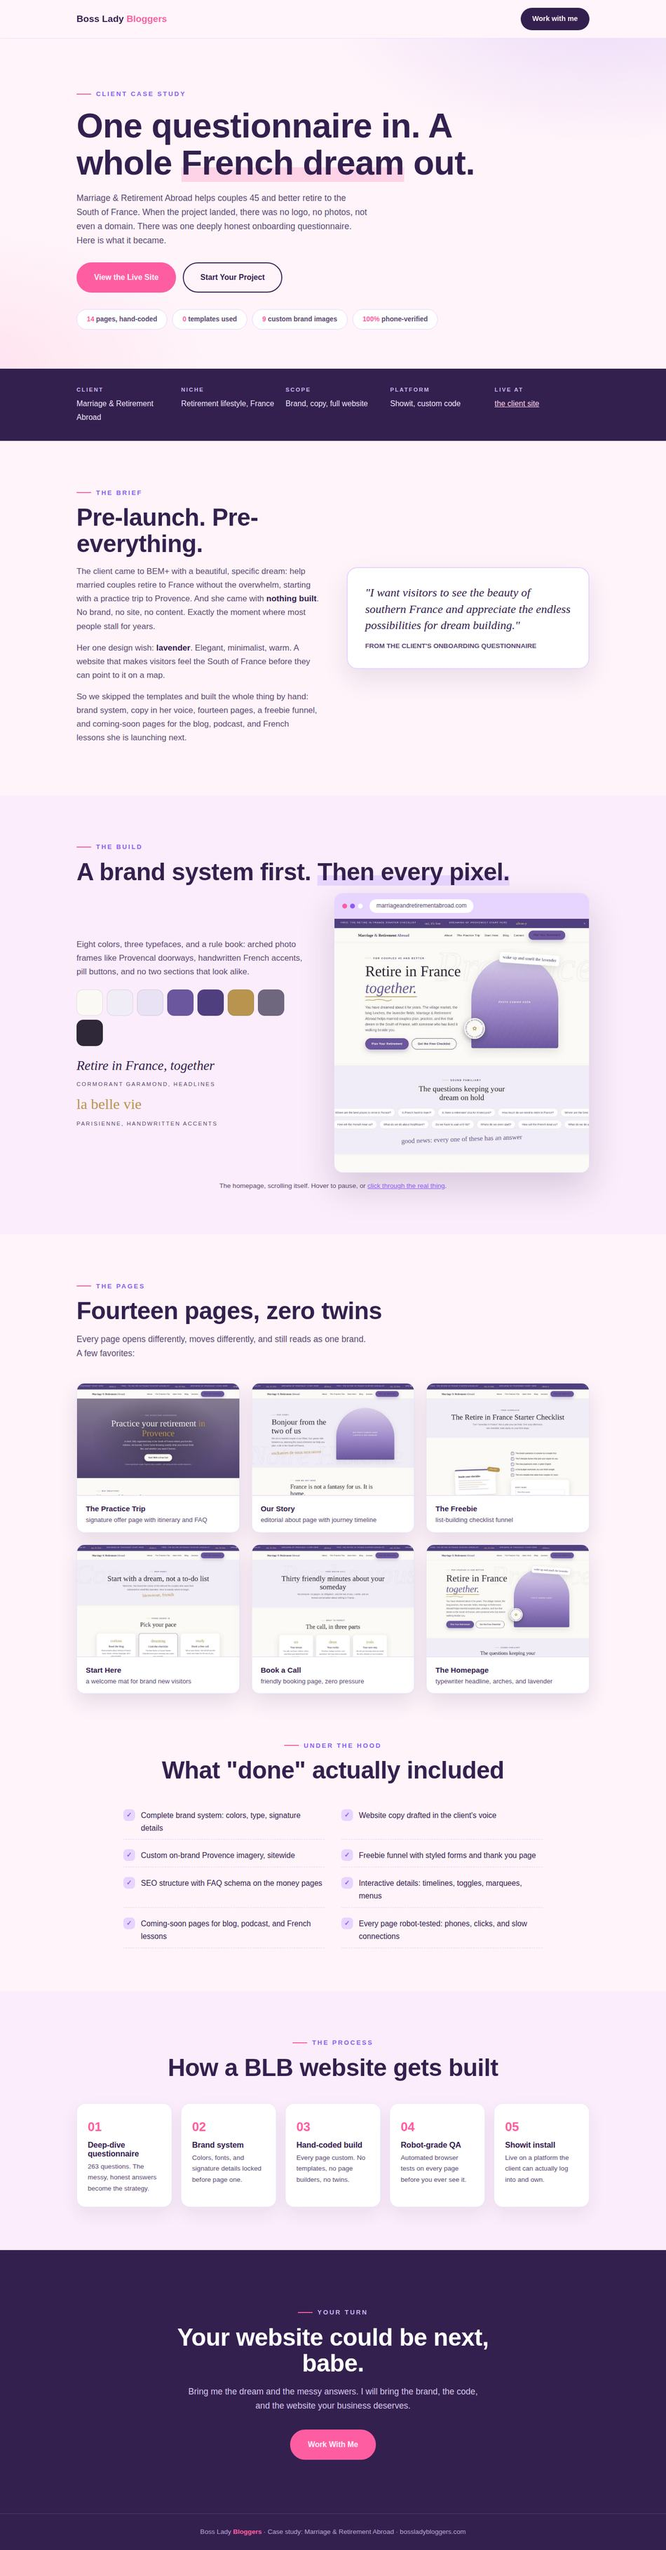
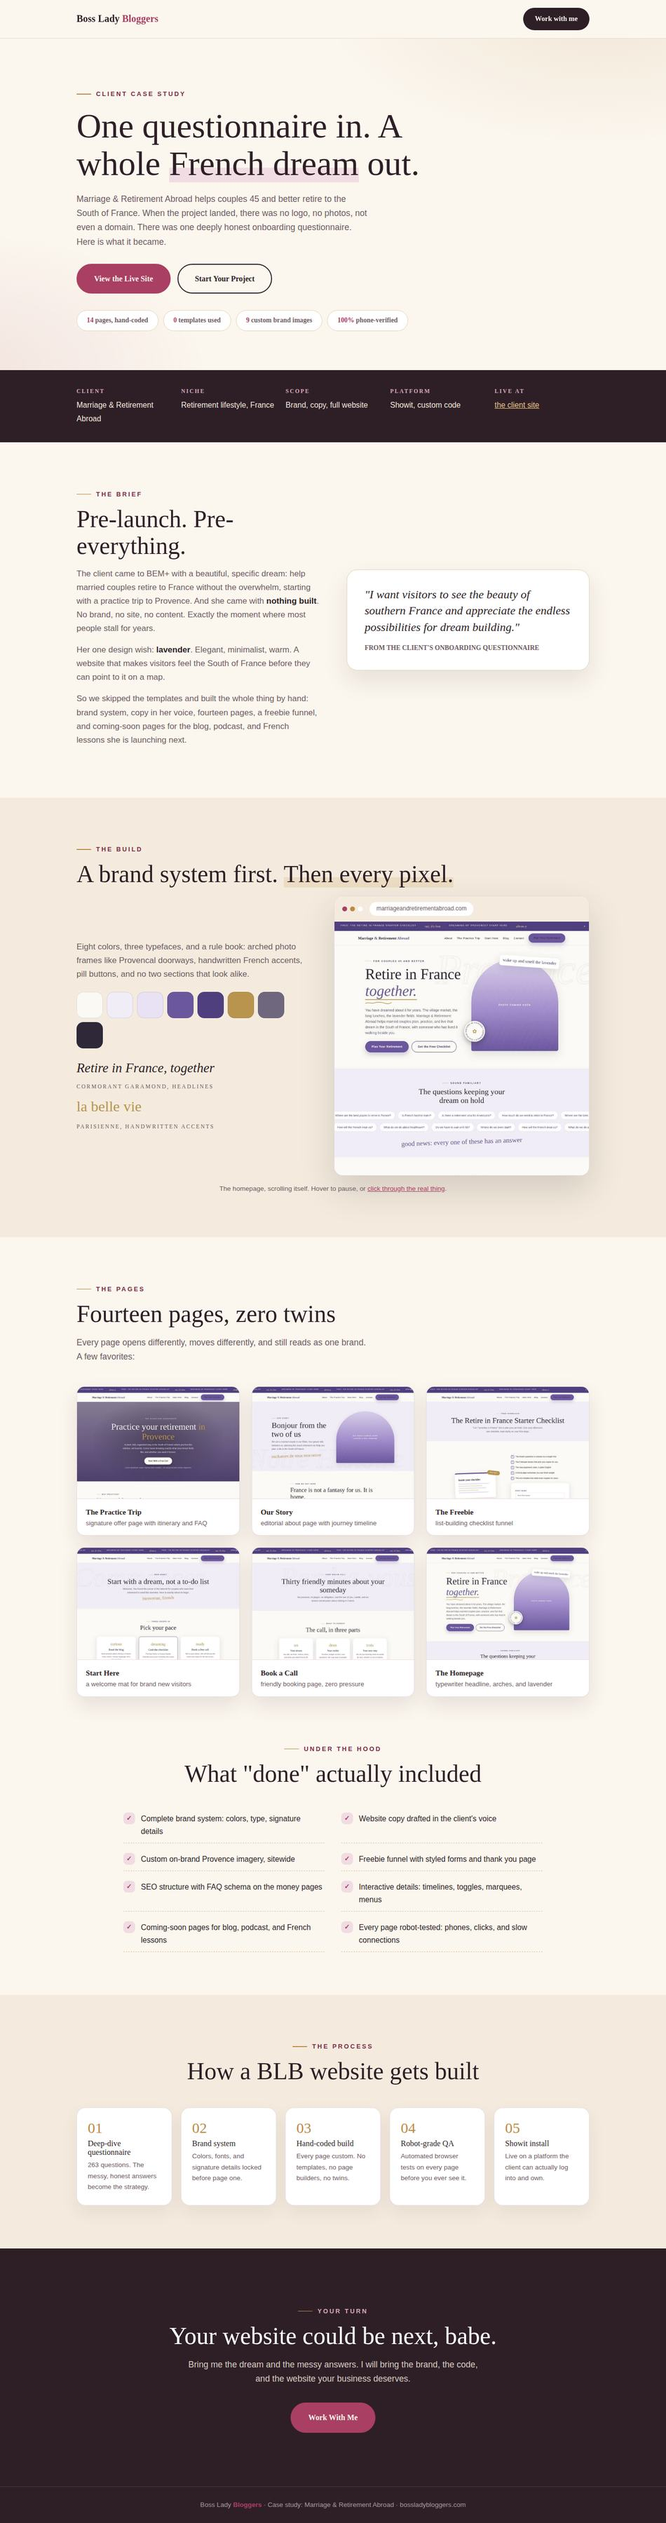
Restyle MRA case study to the playbook BLB brand
Swaps the draft index.html palette for the documented brand system:
Fraunces/Karla/Ephesis, cream #FBF6EE paper, ink #2E1F27, pink #A93F63
action color, gold #BC8A47 accents, blush surfaces.

Claude-Session: https://claude.ai/code/session_011La7xTbi3rv4rhvNtv9tMG

diff --git a/portfolio/case-study-mra.html b/portfolio/case-study-mra.html
@@ -7,11 +7,11 @@
 <meta name="description" content="How Boss Lady Bloggers turned one onboarding questionnaire into a 14-page, hand-coded website for Marriage &amp; Retirement Abroad, a retire-in-France brand for couples 45 and better.">
 <link rel="preconnect" href="https://fonts.googleapis.com">
 <link rel="preconnect" href="https://fonts.gstatic.com" crossorigin>
-<link href="https://fonts.googleapis.com/css2?family=Bricolage+Grotesque:opsz,wght@12..96,400;12..96,600;12..96,700;12..96,800&family=Inter:wght@400;500;600&family=Cormorant+Garamond:ital,wght@1,500&family=Parisienne&display=swap" rel="stylesheet">
+<link href="https://fonts.googleapis.com/css2?family=Fraunces:ital,opsz,wght@0,9..144,500;0,9..144,600;1,9..144,500&family=Karla:wght@400;700&family=Ephesis&family=Cormorant+Garamond:ital,wght@1,500&family=Parisienne&display=swap" rel="stylesheet">
 <style>
-:root{--paper:#FFF4FA;--tint:#FBEDFB;--ink:#34204F;--pink:#FF5DA2;--purple:#8B5CF6;
-  --lilac:#E7D4FF;--blue:#5C7CFA;--muted:#5b4a72;
-  --display:'Bricolage Grotesque',sans-serif;--body:'Inter',sans-serif;
+:root{--paper:#FBF6EE;--tint:#F4EBDE;--ink:#2E1F27;--pink:#A93F63;--purple:#7C2B48;
+  --lilac:#F0DCE2;--gold:#BC8A47;--muted:#6E5C63;
+  --display:'Fraunces',Georgia,serif;--body:'Karla',sans-serif;--script:'Ephesis',cursive;
   --mra-serif:'Cormorant Garamond',serif;--mra-script:'Parisienne',cursive}
 *{margin:0;padding:0;box-sizing:border-box}
 html{scroll-behavior:smooth}
@@ -20,64 +20,64 @@ body{background:var(--paper);color:var(--ink);font-family:var(--body);font-size:
 img{max-width:100%;display:block}
 .wrap{max-width:1100px;margin:0 auto;padding:0 24px}
 section{padding:88px 0;position:relative;overflow:hidden}
-h1,h2,h3{font-family:var(--display);font-weight:800;line-height:1.08;letter-spacing:-.01em}
+h1,h2,h3{font-family:var(--display);font-weight:500;line-height:1.1;letter-spacing:0}
 .eyebrow{display:inline-flex;align-items:center;gap:10px;font-family:var(--display);font-weight:700;
-  font-size:.82rem;letter-spacing:.22em;text-transform:uppercase;color:var(--purple)}
-.eyebrow::before{content:"";width:30px;height:2px;background:var(--pink)}
+  font-size:.8rem;letter-spacing:.24em;text-transform:uppercase;color:var(--purple);font-family:var(--body);font-weight:700}
+.eyebrow::before{content:"";width:30px;height:1.5px;background:var(--gold)}
 .h2{font-size:clamp(2rem,4.4vw,3.1rem);margin:14px 0 16px}
-.mark{background:linear-gradient(180deg,transparent 62%,var(--lilac) 62%)}
-.mark.pink{background:linear-gradient(180deg,transparent 62%,#FFD3E7 62%)}
+.mark{background:linear-gradient(180deg,transparent 62%,#EBDCC3 62%)}
+.mark.pink{background:linear-gradient(180deg,transparent 62%,var(--lilac) 62%)}
 .lede{font-size:1.1rem;color:var(--muted);max-width:600px}
 .btn{display:inline-flex;align-items:center;gap:8px;font-family:var(--display);font-weight:700;
   font-size:.98rem;padding:16px 34px;border-radius:50px;text-decoration:none;background:var(--ink);
   color:var(--paper);border:2px solid var(--ink);transition:transform .2s,box-shadow .2s,background .2s,color .2s}
-.btn:hover{transform:translateY(-3px);box-shadow:0 14px 30px rgba(52,32,79,.25)}
+.btn:hover{transform:translateY(-3px);box-shadow:0 14px 30px rgba(46,31,39,.22)}
 .btn-pink{background:var(--pink);border-color:var(--pink)}
 .btn-outline{background:transparent;color:var(--ink)}
 .btn-outline:hover{background:var(--ink);color:var(--paper)}
 
-nav{position:sticky;top:0;z-index:50;background:rgba(255,244,250,.92);backdrop-filter:blur(10px);
-  border-bottom:1px solid rgba(139,92,246,.15)}
+nav{position:sticky;top:0;z-index:50;background:rgba(251,246,238,.93);backdrop-filter:blur(10px);
+  border-bottom:1px solid rgba(124,43,72,.14)}
 .nav-inner{display:flex;align-items:center;justify-content:space-between;padding:16px 24px;max-width:1100px;margin:0 auto}
-.logo{font-family:var(--display);font-weight:800;font-size:1.2rem}
+.logo{font-family:var(--display);font-weight:600;font-size:1.25rem}
 .logo b{color:var(--pink)}
 .logo a{color:var(--ink);text-decoration:none}
 .nav-cta{font-family:var(--display);font-weight:700;font-size:.9rem;background:var(--ink);color:var(--paper);
   padding:11px 24px;border-radius:50px;text-decoration:none}
 
 .hero{padding:96px 0 80px;background:
-  radial-gradient(800px 400px at 90% -10%,rgba(139,92,246,.16),transparent 70%),
-  radial-gradient(700px 400px at -5% 100%,rgba(255,93,162,.12),transparent 70%),var(--paper)}
+  radial-gradient(800px 400px at 90% -10%,rgba(188,138,71,.14),transparent 70%),
+  radial-gradient(700px 400px at -5% 100%,rgba(169,63,99,.10),transparent 70%),var(--paper)}
 .hero h1{font-size:clamp(2.6rem,6vw,4.4rem);margin:16px 0 20px;max-width:820px}
 .hctas{display:flex;gap:14px;flex-wrap:wrap;margin-top:30px}
 .chips{display:flex;gap:10px;flex-wrap:wrap;margin-top:34px}
-.chip{background:#fff;border:1.5px solid var(--lilac);border-radius:50px;padding:9px 20px;
+.chip{background:#fff;border:1.5px solid #E5D3B8;border-radius:50px;padding:9px 20px;
   font-family:var(--display);font-weight:600;font-size:.86rem;color:var(--muted)}
-.chip b{color:var(--pink)}
+.chip b{color:var(--pink);font-family:var(--display)}
 
-.meta{background:var(--ink);color:#EDE4FA;padding:34px 0}
+.meta{background:var(--ink);color:#F2E8DC;padding:34px 0}
 .metarow{display:grid;grid-template-columns:repeat(5,1fr);gap:20px}
 .meta .m b{display:block;font-family:var(--display);font-size:.72rem;letter-spacing:.2em;
-  text-transform:uppercase;color:#C9B6F2;margin-bottom:5px}
+  text-transform:uppercase;color:#D9A9BC;margin-bottom:5px}
 .meta .m span{font-size:.98rem}
-.meta a{color:#FFD3E7}
+.meta a{color:#E9C48A}
 
 .split{display:grid;grid-template-columns:1fr 1fr;gap:56px;align-items:center}
 .brief p{margin-bottom:16px;color:var(--muted)}
 .brief p b{color:var(--ink)}
-.quotecard{background:#fff;border:2px solid var(--lilac);border-radius:22px;padding:34px 36px;
-  box-shadow:0 22px 50px rgba(52,32,79,.10);transform:rotate(-1deg)}
+.quotecard{background:#fff;border:1.5px solid #E5D3B8;border-radius:22px;padding:34px 36px;
+  box-shadow:0 22px 50px rgba(46,31,39,.10);transform:rotate(-1deg)}
 .quotecard .q{font-family:var(--mra-serif);font-style:italic;font-size:1.5rem;line-height:1.4;color:var(--ink)}
 .quotecard .a{margin-top:14px;font-family:var(--display);font-weight:600;font-size:.85rem;color:var(--muted)}
 
 .tour{background:var(--tint)}
 .tourgrid{display:grid;grid-template-columns:1fr 1.1fr;gap:52px;align-items:center;margin-top:10px}
-.browser{background:#fff;border-radius:18px;overflow:hidden;border:1px solid rgba(139,92,246,.2);
-  box-shadow:0 30px 70px rgba(52,32,79,.18)}
-.bbar{display:flex;gap:6px;align-items:center;padding:12px 16px;background:var(--lilac)}
+.browser{background:#fff;border-radius:18px;overflow:hidden;border:1px solid rgba(124,43,72,.18);
+  box-shadow:0 30px 70px rgba(46,31,39,.16)}
+.bbar{display:flex;gap:6px;align-items:center;padding:12px 16px;background:var(--tint)}
 .bbar i{width:10px;height:10px;border-radius:50%;background:#fff}
 .bbar i:nth-child(1){background:var(--pink)}
-.bbar i:nth-child(2){background:var(--purple)}
+.bbar i:nth-child(2){background:var(--gold)}
 .bbar span{margin-left:8px;background:#fff;border-radius:50px;padding:4px 14px;font-size:.75rem;color:var(--muted)}
 .bwin{height:520px;overflow:hidden;position:relative}
 .bwin img{width:100%;animation:sitescroll 26s ease-in-out infinite alternate}
@@ -91,30 +91,30 @@ nav{position:sticky;top:0;z-index:50;background:rgba(255,244,250,.92);backdrop-f
 .spec .lab{font-family:var(--display);font-size:.72rem;letter-spacing:.2em;text-transform:uppercase;color:var(--muted)}
 
 .gal{display:grid;grid-template-columns:repeat(3,1fr);gap:24px;margin-top:46px}
-.shot{background:#fff;border-radius:16px;overflow:hidden;border:1px solid rgba(139,92,246,.18);
-  box-shadow:0 18px 40px rgba(52,32,79,.12);transition:transform .25s}
+.shot{background:#fff;border-radius:16px;overflow:hidden;border:1px solid rgba(124,43,72,.16);
+  box-shadow:0 18px 40px rgba(46,31,39,.10);transition:transform .25s}
 .shot:hover{transform:translateY(-6px) rotate(-.5deg)}
 .shot .simg{height:230px;overflow:hidden;border-bottom:1px solid var(--lilac)}
 .shot figcaption{padding:14px 18px;font-family:var(--display);font-weight:700;font-size:.95rem}
 .shot figcaption span{display:block;font-family:var(--body);font-weight:400;font-size:.82rem;color:var(--muted)}
 
 .inc{display:grid;grid-template-columns:1fr 1fr;gap:10px 34px;max-width:860px;margin:42px auto 0}
-.inc div{display:flex;gap:12px;align-items:flex-start;padding:10px 0;border-bottom:1px dashed rgba(139,92,246,.25);font-size:.98rem}
+.inc div{display:flex;gap:12px;align-items:flex-start;padding:10px 0;border-bottom:1px dashed rgba(188,138,71,.45);font-size:.98rem}
 .inc div::before{content:"✓";flex:none;width:24px;height:24px;border-radius:8px;background:var(--lilac);
-  color:var(--purple);font-weight:700;display:flex;align-items:center;justify-content:center;font-size:.85rem}
+  color:var(--pink);font-weight:700;display:flex;align-items:center;justify-content:center;font-size:.85rem}
 
 .steps{background:var(--tint)}
 .steprow{display:grid;grid-template-columns:repeat(5,1fr);gap:18px;margin-top:46px}
-.step{background:#fff;border-radius:18px;padding:26px 22px;border:1px solid rgba(139,92,246,.16);
-  box-shadow:0 14px 34px rgba(52,32,79,.08)}
-.step .n{font-family:var(--display);font-weight:800;font-size:1.6rem;color:var(--pink)}
+.step{background:#fff;border-radius:18px;padding:26px 22px;border:1px solid rgba(124,43,72,.15);
+  box-shadow:0 14px 34px rgba(46,31,39,.07)}
+.step .n{font-family:var(--script);font-size:1.9rem;color:var(--gold);line-height:1}
 .step h3{font-size:1.02rem;margin:8px 0 6px}
 .step p{font-size:.85rem;color:var(--muted)}
 
 .final{background:var(--ink);color:var(--paper);text-align:center;padding:110px 0}
 .final .h2{color:#fff;max-width:680px;margin:14px auto 16px}
-.final .lede{margin:0 auto 34px;color:#D5C8EC}
-footer{background:var(--ink);color:#B8A8D6;text-align:center;font-size:.85rem;padding:26px 16px;
+.final .lede{margin:0 auto 34px;color:#D8CDC2}
+footer{background:var(--ink);color:#A9989F;text-align:center;font-size:.85rem;padding:26px 16px;
   border-top:1px solid rgba(255,255,255,.12)}
 footer b{color:var(--pink)}
 
@@ -216,7 +216,7 @@ footer b{color:var(--pink)}
     </div>
   </div>
   <p style="text-align:center;margin-top:16px;font-size:.85rem;color:var(--muted)">The homepage, scrolling itself. Hover to pause, or
-  <a href="https://marriageandretirementabroad.showit.site/" target="_blank" rel="noopener" style="color:var(--purple)">click through the real thing</a>.</p>
+  <a href="https://marriageandretirementabroad.showit.site/" target="_blank" rel="noopener" style="color:var(--pink)">click through the real thing</a>.</p>
 </div></section>
 
 <section><div class="wrap">
@@ -268,7 +268,7 @@ footer b{color:var(--pink)}
 </div></section>
 
 <section class="final"><div class="wrap">
-  <span class="eyebrow" style="color:#C9B6F2">Your turn</span>
+  <span class="eyebrow" style="color:#D9A9BC">Your turn</span>
   <h2 class="h2">Your website could be next, babe.</h2>
   <p class="lede">Bring me the dream and the messy answers. I will bring the brand, the code, and the
   website your business deserves.</p>

diff --git a/portfolio/build_case_study.py b/portfolio/build_case_study.py
@@ -1,8 +1,8 @@
 #!/usr/bin/env python3
 """BLB portfolio case study: Marriage & Retirement Abroad.
 Single-file page for a full-page Showit embed on bossladybloggers.com.
-Matches the LIVE BLB brand (index.html): Bricolage Grotesque + Inter,
-pink/purple on blush paper. Run: python3 build_case_study.py"""
+Matches the BLB brand per CLIENT-SITE-PLAYBOOK Phase 1: Fraunces + Karla
++ Ephesis, cream paper, deep pink #A93F63, gold accents. Run: python3 build_case_study.py"""
 
 RAW = "https://raw.githubusercontent.com/genasbury12/blb-site/claude/lisette-client-repo-9865ki/portfolio/img"
 LIVE = "https://marriageandretirementabroad.showit.site/"
@@ -17,11 +17,11 @@ html = f"""<!DOCTYPE html>
 <meta name="description" content="How Boss Lady Bloggers turned one onboarding questionnaire into a 14-page, hand-coded website for Marriage &amp; Retirement Abroad, a retire-in-France brand for couples 45 and better.">
 <link rel="preconnect" href="https://fonts.googleapis.com">
 <link rel="preconnect" href="https://fonts.gstatic.com" crossorigin>
-<link href="https://fonts.googleapis.com/css2?family=Bricolage+Grotesque:opsz,wght@12..96,400;12..96,600;12..96,700;12..96,800&family=Inter:wght@400;500;600&family=Cormorant+Garamond:ital,wght@1,500&family=Parisienne&display=swap" rel="stylesheet">
+<link href="https://fonts.googleapis.com/css2?family=Fraunces:ital,opsz,wght@0,9..144,500;0,9..144,600;1,9..144,500&family=Karla:wght@400;700&family=Ephesis&family=Cormorant+Garamond:ital,wght@1,500&family=Parisienne&display=swap" rel="stylesheet">
 <style>
-:root{{--paper:#FFF4FA;--tint:#FBEDFB;--ink:#34204F;--pink:#FF5DA2;--purple:#8B5CF6;
-  --lilac:#E7D4FF;--blue:#5C7CFA;--muted:#5b4a72;
-  --display:'Bricolage Grotesque',sans-serif;--body:'Inter',sans-serif;
+:root{{--paper:#FBF6EE;--tint:#F4EBDE;--ink:#2E1F27;--pink:#A93F63;--purple:#7C2B48;
+  --lilac:#F0DCE2;--gold:#BC8A47;--muted:#6E5C63;
+  --display:'Fraunces',Georgia,serif;--body:'Karla',sans-serif;--script:'Ephesis',cursive;
   --mra-serif:'Cormorant Garamond',serif;--mra-script:'Parisienne',cursive}}
 *{{margin:0;padding:0;box-sizing:border-box}}
 html{{scroll-behavior:smooth}}
@@ -30,64 +30,64 @@ body{{background:var(--paper);color:var(--ink);font-family:var(--body);font-size
 img{{max-width:100%;display:block}}
 .wrap{{max-width:1100px;margin:0 auto;padding:0 24px}}
 section{{padding:88px 0;position:relative;overflow:hidden}}
-h1,h2,h3{{font-family:var(--display);font-weight:800;line-height:1.08;letter-spacing:-.01em}}
+h1,h2,h3{{font-family:var(--display);font-weight:500;line-height:1.1;letter-spacing:0}}
 .eyebrow{{display:inline-flex;align-items:center;gap:10px;font-family:var(--display);font-weight:700;
-  font-size:.82rem;letter-spacing:.22em;text-transform:uppercase;color:var(--purple)}}
-.eyebrow::before{{content:"";width:30px;height:2px;background:var(--pink)}}
+  font-size:.8rem;letter-spacing:.24em;text-transform:uppercase;color:var(--purple);font-family:var(--body);font-weight:700}}
+.eyebrow::before{{content:"";width:30px;height:1.5px;background:var(--gold)}}
 .h2{{font-size:clamp(2rem,4.4vw,3.1rem);margin:14px 0 16px}}
-.mark{{background:linear-gradient(180deg,transparent 62%,var(--lilac) 62%)}}
-.mark.pink{{background:linear-gradient(180deg,transparent 62%,#FFD3E7 62%)}}
+.mark{{background:linear-gradient(180deg,transparent 62%,#EBDCC3 62%)}}
+.mark.pink{{background:linear-gradient(180deg,transparent 62%,var(--lilac) 62%)}}
 .lede{{font-size:1.1rem;color:var(--muted);max-width:600px}}
 .btn{{display:inline-flex;align-items:center;gap:8px;font-family:var(--display);font-weight:700;
   font-size:.98rem;padding:16px 34px;border-radius:50px;text-decoration:none;background:var(--ink);
   color:var(--paper);border:2px solid var(--ink);transition:transform .2s,box-shadow .2s,background .2s,color .2s}}
-.btn:hover{{transform:translateY(-3px);box-shadow:0 14px 30px rgba(52,32,79,.25)}}
+.btn:hover{{transform:translateY(-3px);box-shadow:0 14px 30px rgba(46,31,39,.22)}}
 .btn-pink{{background:var(--pink);border-color:var(--pink)}}
 .btn-outline{{background:transparent;color:var(--ink)}}
 .btn-outline:hover{{background:var(--ink);color:var(--paper)}}
 
-nav{{position:sticky;top:0;z-index:50;background:rgba(255,244,250,.92);backdrop-filter:blur(10px);
-  border-bottom:1px solid rgba(139,92,246,.15)}}
+nav{{position:sticky;top:0;z-index:50;background:rgba(251,246,238,.93);backdrop-filter:blur(10px);
+  border-bottom:1px solid rgba(124,43,72,.14)}}
 .nav-inner{{display:flex;align-items:center;justify-content:space-between;padding:16px 24px;max-width:1100px;margin:0 auto}}
-.logo{{font-family:var(--display);font-weight:800;font-size:1.2rem}}
+.logo{{font-family:var(--display);font-weight:600;font-size:1.25rem}}
 .logo b{{color:var(--pink)}}
 .logo a{{color:var(--ink);text-decoration:none}}
 .nav-cta{{font-family:var(--display);font-weight:700;font-size:.9rem;background:var(--ink);color:var(--paper);
   padding:11px 24px;border-radius:50px;text-decoration:none}}
 
 .hero{{padding:96px 0 80px;background:
-  radial-gradient(800px 400px at 90% -10%,rgba(139,92,246,.16),transparent 70%),
-  radial-gradient(700px 400px at -5% 100%,rgba(255,93,162,.12),transparent 70%),var(--paper)}}
+  radial-gradient(800px 400px at 90% -10%,rgba(188,138,71,.14),transparent 70%),
+  radial-gradient(700px 400px at -5% 100%,rgba(169,63,99,.10),transparent 70%),var(--paper)}}
 .hero h1{{font-size:clamp(2.6rem,6vw,4.4rem);margin:16px 0 20px;max-width:820px}}
 .hctas{{display:flex;gap:14px;flex-wrap:wrap;margin-top:30px}}
 .chips{{display:flex;gap:10px;flex-wrap:wrap;margin-top:34px}}
-.chip{{background:#fff;border:1.5px solid var(--lilac);border-radius:50px;padding:9px 20px;
+.chip{{background:#fff;border:1.5px solid #E5D3B8;border-radius:50px;padding:9px 20px;
   font-family:var(--display);font-weight:600;font-size:.86rem;color:var(--muted)}}
-.chip b{{color:var(--pink)}}
+.chip b{{color:var(--pink);font-family:var(--display)}}
 
-.meta{{background:var(--ink);color:#EDE4FA;padding:34px 0}}
+.meta{{background:var(--ink);color:#F2E8DC;padding:34px 0}}
 .metarow{{display:grid;grid-template-columns:repeat(5,1fr);gap:20px}}
 .meta .m b{{display:block;font-family:var(--display);font-size:.72rem;letter-spacing:.2em;
-  text-transform:uppercase;color:#C9B6F2;margin-bottom:5px}}
+  text-transform:uppercase;color:#D9A9BC;margin-bottom:5px}}
 .meta .m span{{font-size:.98rem}}
-.meta a{{color:#FFD3E7}}
+.meta a{{color:#E9C48A}}
 
 .split{{display:grid;grid-template-columns:1fr 1fr;gap:56px;align-items:center}}
 .brief p{{margin-bottom:16px;color:var(--muted)}}
 .brief p b{{color:var(--ink)}}
-.quotecard{{background:#fff;border:2px solid var(--lilac);border-radius:22px;padding:34px 36px;
-  box-shadow:0 22px 50px rgba(52,32,79,.10);transform:rotate(-1deg)}}
+.quotecard{{background:#fff;border:1.5px solid #E5D3B8;border-radius:22px;padding:34px 36px;
+  box-shadow:0 22px 50px rgba(46,31,39,.10);transform:rotate(-1deg)}}
 .quotecard .q{{font-family:var(--mra-serif);font-style:italic;font-size:1.5rem;line-height:1.4;color:var(--ink)}}
 .quotecard .a{{margin-top:14px;font-family:var(--display);font-weight:600;font-size:.85rem;color:var(--muted)}}
 
 .tour{{background:var(--tint)}}
 .tourgrid{{display:grid;grid-template-columns:1fr 1.1fr;gap:52px;align-items:center;margin-top:10px}}
-.browser{{background:#fff;border-radius:18px;overflow:hidden;border:1px solid rgba(139,92,246,.2);
-  box-shadow:0 30px 70px rgba(52,32,79,.18)}}
-.bbar{{display:flex;gap:6px;align-items:center;padding:12px 16px;background:var(--lilac)}}
+.browser{{background:#fff;border-radius:18px;overflow:hidden;border:1px solid rgba(124,43,72,.18);
+  box-shadow:0 30px 70px rgba(46,31,39,.16)}}
+.bbar{{display:flex;gap:6px;align-items:center;padding:12px 16px;background:var(--tint)}}
 .bbar i{{width:10px;height:10px;border-radius:50%;background:#fff}}
 .bbar i:nth-child(1){{background:var(--pink)}}
-.bbar i:nth-child(2){{background:var(--purple)}}
+.bbar i:nth-child(2){{background:var(--gold)}}
 .bbar span{{margin-left:8px;background:#fff;border-radius:50px;padding:4px 14px;font-size:.75rem;color:var(--muted)}}
 .bwin{{height:520px;overflow:hidden;position:relative}}
 .bwin img{{width:100%;animation:sitescroll 26s ease-in-out infinite alternate}}
@@ -101,30 +101,30 @@ nav{{position:sticky;top:0;z-index:50;background:rgba(255,244,250,.92);backdrop-
 .spec .lab{{font-family:var(--display);font-size:.72rem;letter-spacing:.2em;text-transform:uppercase;color:var(--muted)}}
 
 .gal{{display:grid;grid-template-columns:repeat(3,1fr);gap:24px;margin-top:46px}}
-.shot{{background:#fff;border-radius:16px;overflow:hidden;border:1px solid rgba(139,92,246,.18);
-  box-shadow:0 18px 40px rgba(52,32,79,.12);transition:transform .25s}}
+.shot{{background:#fff;border-radius:16px;overflow:hidden;border:1px solid rgba(124,43,72,.16);
+  box-shadow:0 18px 40px rgba(46,31,39,.10);transition:transform .25s}}
 .shot:hover{{transform:translateY(-6px) rotate(-.5deg)}}
 .shot .simg{{height:230px;overflow:hidden;border-bottom:1px solid var(--lilac)}}
 .shot figcaption{{padding:14px 18px;font-family:var(--display);font-weight:700;font-size:.95rem}}
 .shot figcaption span{{display:block;font-family:var(--body);font-weight:400;font-size:.82rem;color:var(--muted)}}
 
 .inc{{display:grid;grid-template-columns:1fr 1fr;gap:10px 34px;max-width:860px;margin:42px auto 0}}
-.inc div{{display:flex;gap:12px;align-items:flex-start;padding:10px 0;border-bottom:1px dashed rgba(139,92,246,.25);font-size:.98rem}}
+.inc div{{display:flex;gap:12px;align-items:flex-start;padding:10px 0;border-bottom:1px dashed rgba(188,138,71,.45);font-size:.98rem}}
 .inc div::before{{content:"✓";flex:none;width:24px;height:24px;border-radius:8px;background:var(--lilac);
-  color:var(--purple);font-weight:700;display:flex;align-items:center;justify-content:center;font-size:.85rem}}
+  color:var(--pink);font-weight:700;display:flex;align-items:center;justify-content:center;font-size:.85rem}}
 
 .steps{{background:var(--tint)}}
 .steprow{{display:grid;grid-template-columns:repeat(5,1fr);gap:18px;margin-top:46px}}
-.step{{background:#fff;border-radius:18px;padding:26px 22px;border:1px solid rgba(139,92,246,.16);
-  box-shadow:0 14px 34px rgba(52,32,79,.08)}}
-.step .n{{font-family:var(--display);font-weight:800;font-size:1.6rem;color:var(--pink)}}
+.step{{background:#fff;border-radius:18px;padding:26px 22px;border:1px solid rgba(124,43,72,.15);
+  box-shadow:0 14px 34px rgba(46,31,39,.07)}}
+.step .n{{font-family:var(--script);font-size:1.9rem;color:var(--gold);line-height:1}}
 .step h3{{font-size:1.02rem;margin:8px 0 6px}}
 .step p{{font-size:.85rem;color:var(--muted)}}
 
 .final{{background:var(--ink);color:var(--paper);text-align:center;padding:110px 0}}
 .final .h2{{color:#fff;max-width:680px;margin:14px auto 16px}}
-.final .lede{{margin:0 auto 34px;color:#D5C8EC}}
-footer{{background:var(--ink);color:#B8A8D6;text-align:center;font-size:.85rem;padding:26px 16px;
+.final .lede{{margin:0 auto 34px;color:#D8CDC2}}
+footer{{background:var(--ink);color:#A9989F;text-align:center;font-size:.85rem;padding:26px 16px;
   border-top:1px solid rgba(255,255,255,.12)}}
 footer b{{color:var(--pink)}}
 
@@ -226,7 +226,7 @@ footer b{{color:var(--pink)}}
     </div>
   </div>
   <p style="text-align:center;margin-top:16px;font-size:.85rem;color:var(--muted)">The homepage, scrolling itself. Hover to pause, or
-  <a href="{LIVE}" target="_blank" rel="noopener" style="color:var(--purple)">click through the real thing</a>.</p>
+  <a href="{LIVE}" target="_blank" rel="noopener" style="color:var(--pink)">click through the real thing</a>.</p>
 </div></section>
 
 <section><div class="wrap">
@@ -278,7 +278,7 @@ footer b{{color:var(--pink)}}
 </div></section>
 
 <section class="final"><div class="wrap">
-  <span class="eyebrow" style="color:#C9B6F2">Your turn</span>
+  <span class="eyebrow" style="color:#D9A9BC">Your turn</span>
   <h2 class="h2">Your website could be next, babe.</h2>
   <p class="lede">Bring me the dream and the messy answers. I will bring the brand, the code, and the
   website your business deserves.</p>
